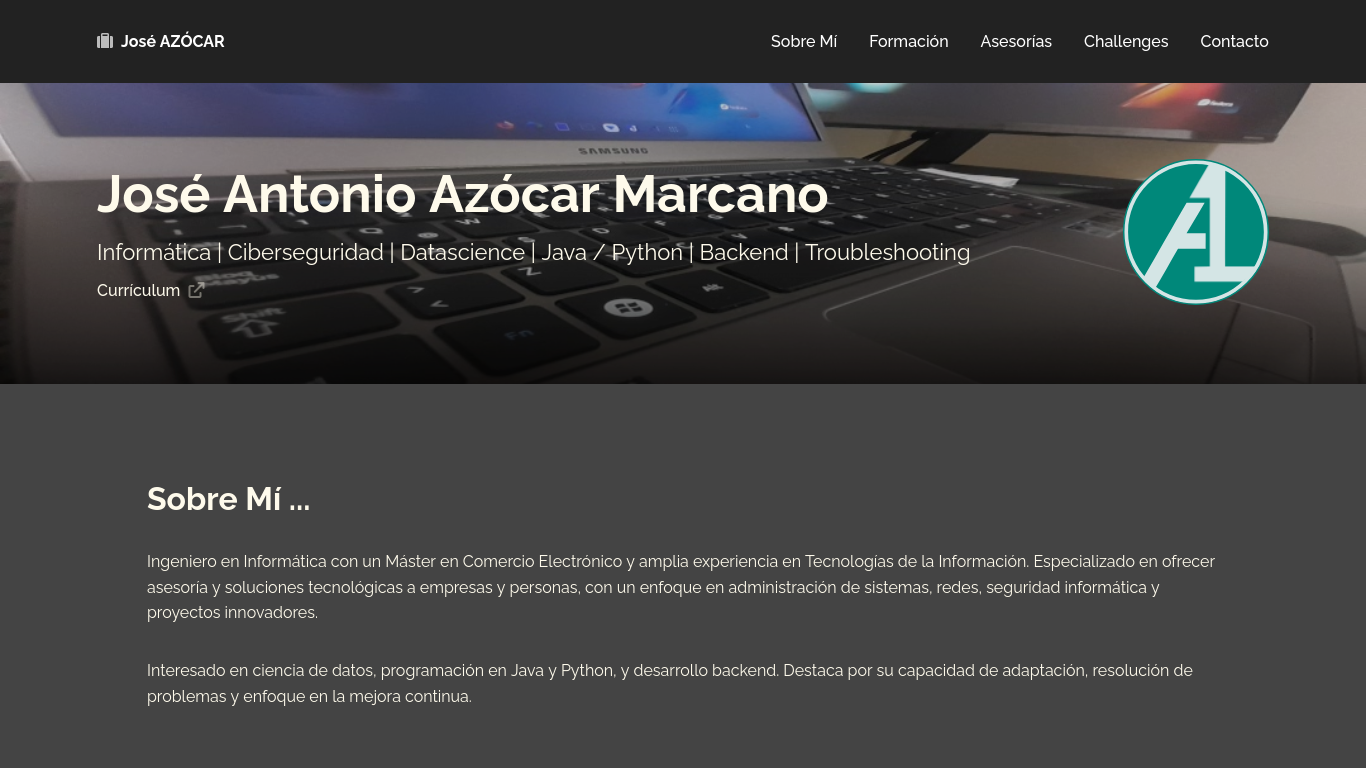
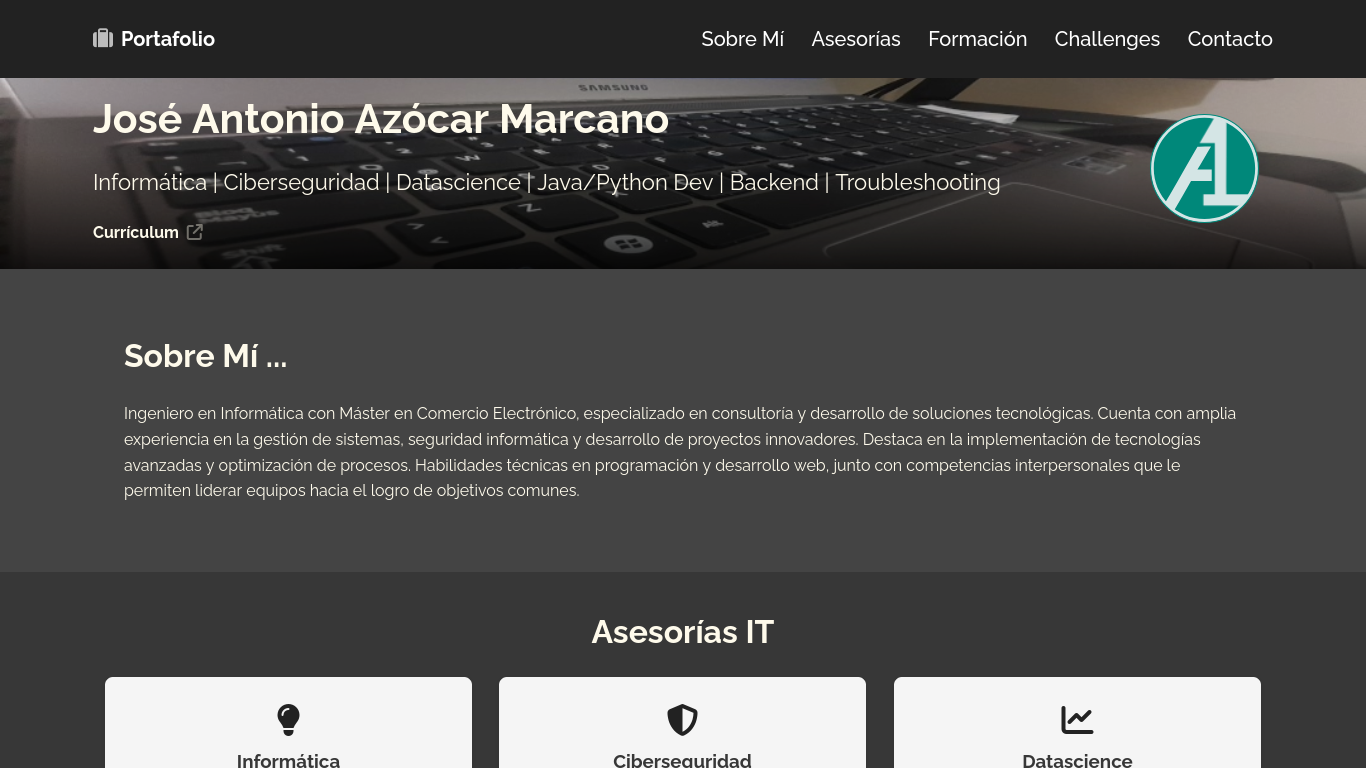
Cambios menores

diff --git a/index.html b/index.html
@@ -24,8 +24,7 @@
     <meta property="og:type" content="website">
 
     <!-- Título optimizado -->
-    <title>José Antonio Azócar Marcano - Portafolio Profesional | Ingeniero en Informática & Especialista en Consultoría
-        IT</title>
+    <title>Portafolio - JosE AzOcar</title>
 
     <!-- Favicon -->
     <link rel="icon" type="image/svg+xml" href="./assets/img/favicon/favicon.svg">
@@ -34,8 +33,7 @@
     <!-- "Google Fonts": Raleway -->
     <link rel="preconnect" href="https://fonts.googleapis.com">
     <link rel="preconnect" href="https://fonts.gstatic.com" crossorigin>
-    <link rel="stylesheet"
-        href="https://fonts.googleapis.com/css2?family=Raleway:wght@300;400;500;700;900&display=swap">
+    <link rel="stylesheet" href="https://fonts.googleapis.com/css2?family=Raleway:wght@300;400;500;700;900&display=swap">
 
     <!-- Font Awesome -->
     <script src="https://kit.fontawesome.com/76f0e7f5f8.js" crossorigin="anonymous"></script>
@@ -113,13 +111,11 @@
         <!-- Sobre Mí -->
         <section class="main__section about" id="about" data-aos="fade-up" aria-labelledby="about-title">
             <h2 id="about-title" class="about__title">Sobre Mí ...</h2>
-            <p class="about__description">Ingeniero en Informática, con un Máster en Comercio Electrónico, cuento con
-                una extensa trayectoria en Tecnologías de la Información. Mi experiencia se enfoca en la consultoría y
-                el desarrollo de soluciones tecnológicas para empresas y particulares, destacando la gestión de
-                sistemas, redes, seguridad informática y proyectos innovadores.</p>
-            <p class="about__description">Mis áreas de interés abarcan la ciencia de datos, la programación en Java y
-                Python, y el desarrollo backend. Me distingo por mi notable capacidad de adaptación, mi destreza en la
-                resolución de problemas y mi firme compromiso con la mejora continua.</p>
+            <p class="about__description">Ingeniero en Informática con Máster en Comercio Electrónico, especializado en
+                consultoría y desarrollo de soluciones tecnológicas. Cuenta con amplia experiencia en la gestión de sistemas,
+                seguridad informática y desarrollo de proyectos innovadores. Destaca en la implementación de tecnologías
+                avanzadas y optimización de procesos. Habilidades técnicas en programación y desarrollo web, junto con
+                competencias interpersonales que le permiten liderar equipos hacia el logro de objetivos comunes.</p>
         </section>
 
         <!-- Asesorías IT -->
@@ -214,6 +210,26 @@
         <section class="main__section projects" id="projects" data-aos="fade-up" aria-labelledby="projects-title">
             <h2 id="projects-title" class="projects__title">Challenges</h2>
             <ul class="projects__list">
+                <!-- Currículum -->
+                <li class="projects__item">
+                    <img class="projects__image" src="./assets/img/projects/curriculum.png"
+                        alt="Currículum - CV digital: Estilo Harvard, multilingüe, JS">
+                    <div class="projects__info">
+                        <h3 class="projects__name">Currículum</h3>
+                        <p class="projects__description">CV digital: Estilo Harvard, compatible ATS, multilingüe, JS.</p>
+                        <div class="projects__keypad">
+                            <a class="projects__button" href="https://github.com/azocarone/curriculum" target="_blank"
+                                rel="noopener noreferrer" aria-label="Ver código en GitHub">
+                                <i class="fab fa-github"></i> GitHub
+                            </a>
+                            <a class="projects__button" href="https://azocarone.github.io/curriculum/" target="_blank"
+                                rel="noopener noreferrer" aria-label="Ver demo del proyecto">
+                                <i class="fas fa-eye"></i> Demo
+                            </a>
+                        </div>
+                    </div>
+                </li>
+                
                 <!-- Portafolio -->
                 <li class="projects__item">
                     <img class="projects__image" src="./assets/img/projects/portafolio.png"
@@ -233,26 +249,7 @@
                         </div>
                     </div>
                 </li>
-                <!-- Currículum -->
-                <li class="projects__item">
-                    <img class="projects__image" src="./assets/img/projects/curriculum.png"
-                        alt="Currículum - CV digital: Estilo Harvard, multilingüe, JS">
-                    <div class="projects__info">
-                        <h3 class="projects__name">Currículum</h3>
-                        <p class="projects__description">CV digital: Estilo Harvard, multilingüe, JS.</p>
-                        <div class="projects__keypad">
-                            <a class="projects__button" href="https://github.com/azocarone/curriculum" target="_blank"
-                                rel="noopener noreferrer" aria-label="Ver código en GitHub">
-                                <i class="fab fa-github"></i> GitHub
-                            </a>
-                            <a class="projects__button" href="https://azocarone.github.io/curriculum/" target="_blank"
-                                rel="noopener noreferrer" aria-label="Ver demo del proyecto">
-                                <i class="fas fa-eye"></i> Demo
-                            </a>
-                        </div>
-                    </div>
-                </li>
-
+                
                 <!-- Juego del Ahorcado -->
                 <li class="projects__item">
                     <img class="projects__image" src="./assets/img/projects/ahorcado.png"
